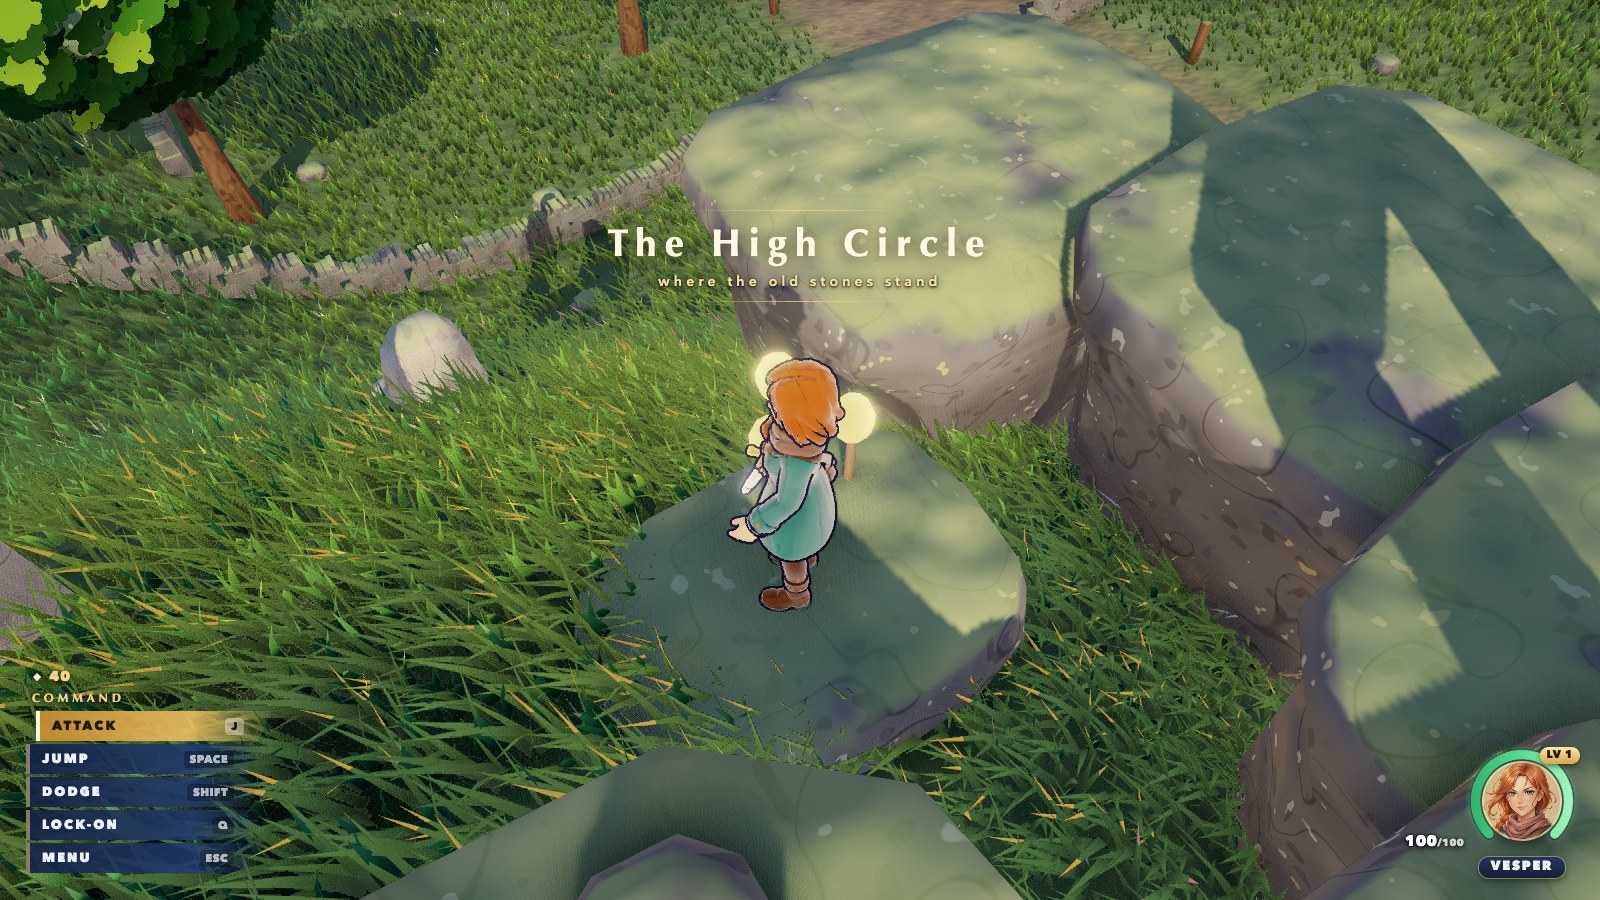
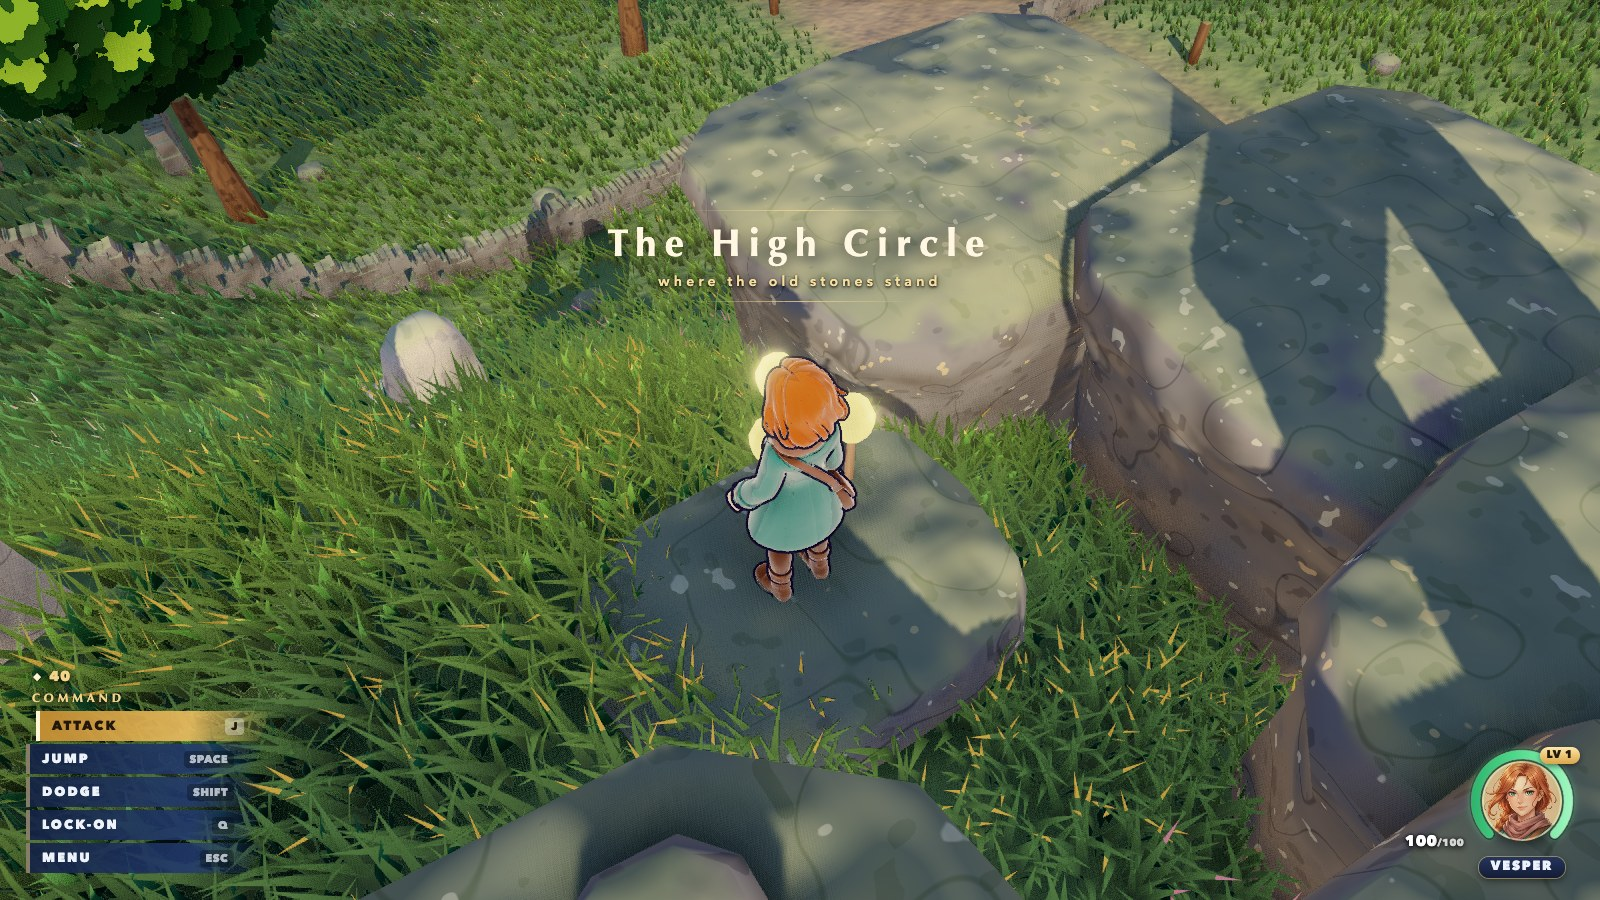
Boulders: moss in clumps with rock between, deeper relief
Claude-Session: https://claude.ai/code/session_01MB2g1DrxFLzAHurbUARdLf

diff --git a/public/js/paint.js b/public/js/paint.js
@@ -188,7 +188,7 @@ const RECIPES = {
   flagstone: { hue: [0.10, 0.40], rough: 0.92, env: 0.38, pave: 2 },
   ring:      { hue: [0.10, 0.40], rough: 0.92, env: 0.38, pave: 2 },
   stone:     { hue: [0.22, 0.55], bump: [0.70, 1.4], mapBump: 0.7, mapFade: 0.35, moss: 0.45, grime: 0.25, rough: 0.88, env: 0.85, lichen: 0.5 },
-  rock:      { hue: [0.30, 0.30], bump: [2.2, 0.8], mapBump: 0.4, mapFade: 0.85, moss: 0.55, rough: 0.92, env: 0.8, tint: [0.62, 0.60, 0.56], lichen: 1 },
+  rock:      { hue: [0.30, 0.30], bump: [2.6, 0.9], mapBump: 0.4, mapFade: 0.85, moss: 0.30, rough: 0.92, env: 0.8, tint: [0.62, 0.60, 0.56], lichen: 1 },
   // the far ranges: dark forested hills that the air pass turns blue
   // SMOOTH, NOT BLOTCHED. A forest pattern at this distance came out, under
   // the haze, as drifting patches of cloud -- the eye reads large soft
@@ -590,7 +590,10 @@ vec3 pPaveTilt = vec3(0.0);
     // the noise carries more of it than the facing does: moss takes in
     // patches and drifts, and a rock with a perfect green cap reads as a
     // painted prop
-    float m = smoothstep(0.50, 0.66, mn * 0.95 + up * 0.30) * up * uMoss;
+    // patchier at a smaller scale too, so a boulder's top is moss in clumps
+    // with rock showing between, not a green carpet
+    float mn2 = pNoise(vPW * 4.5 + 7.0);
+    float m = smoothstep(0.50, 0.66, mn * 0.75 + mn2 * 0.25 + up * 0.30) * up * uMoss;
     vec3 mossCol = mix(vec3(0.24, 0.36, 0.14), vec3(0.42, 0.52, 0.20), pNoise(vPW * 4.0));
     diffuseColor.rgb = mix(diffuseColor.rgb, mossCol, clamp(m, 0.0, 1.0));
   }
